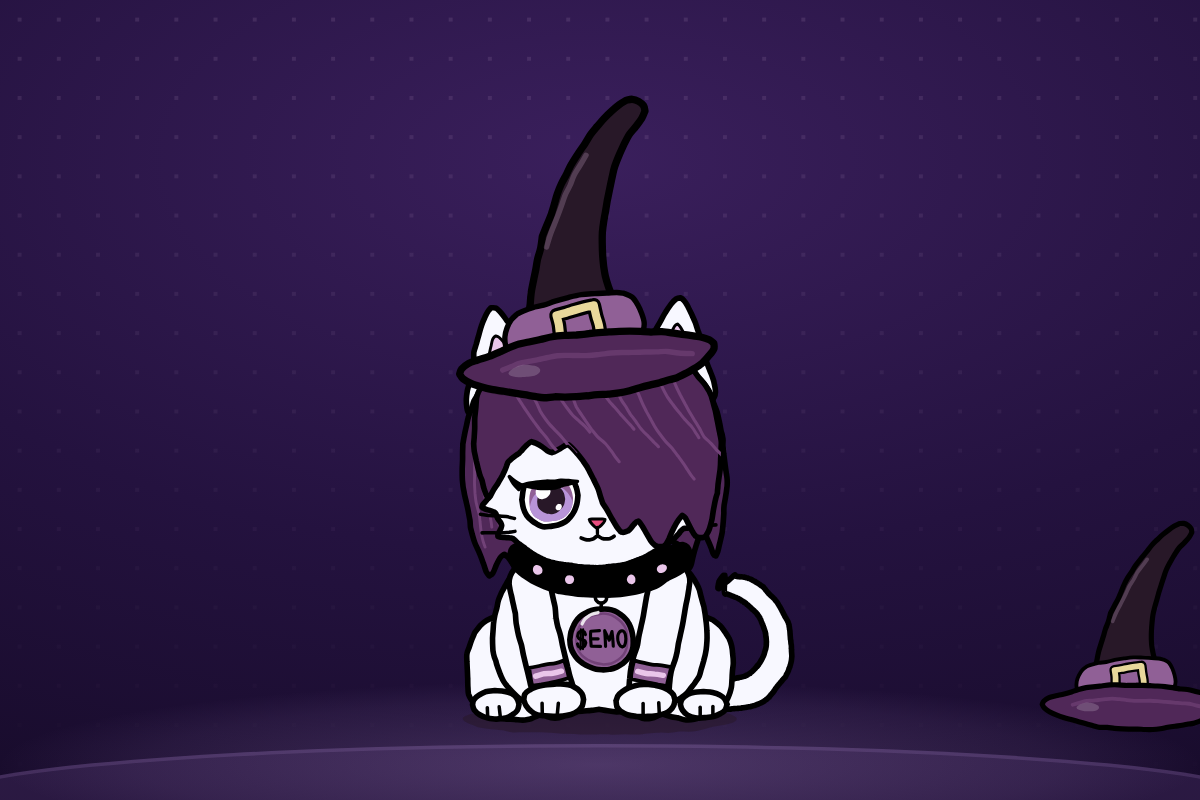
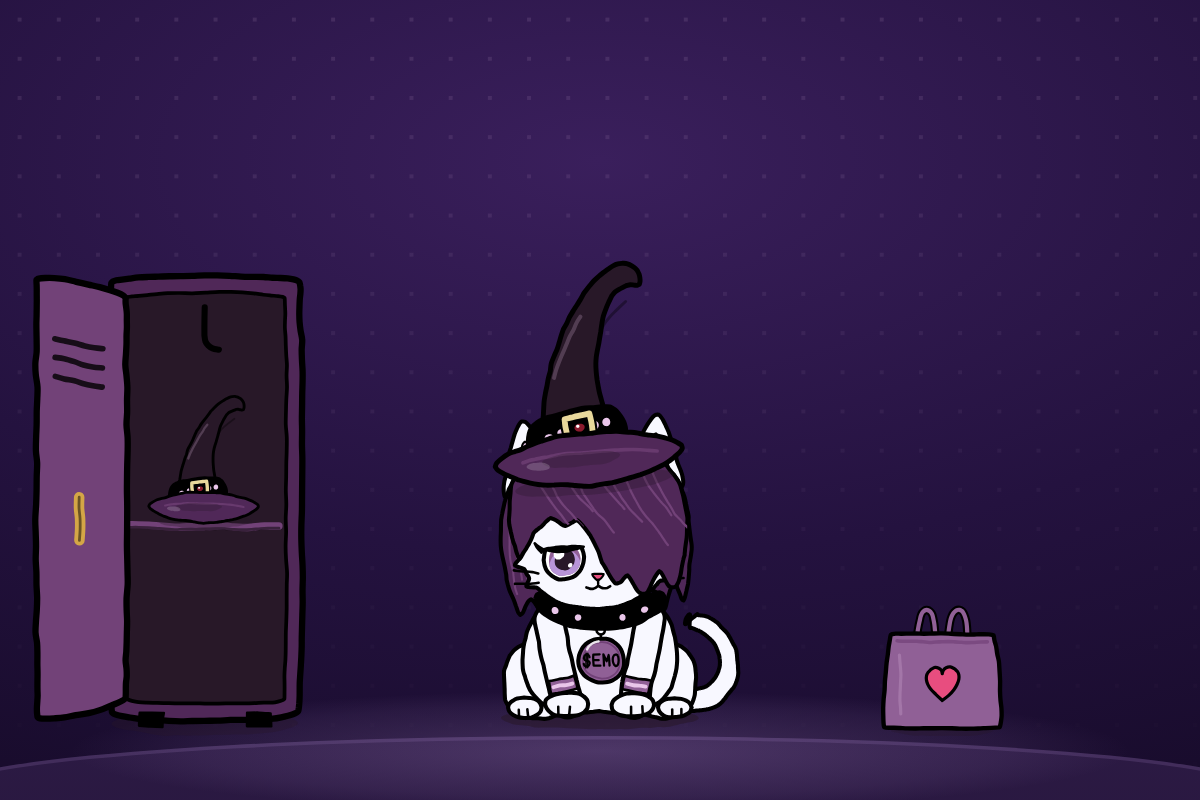
Emogotchi Items: a brand for the shop, not a product shot of one hat
The first pass was a witch hat on the room floor. A hat is an item; it is not what the shop is. The
shop is where the cat keeps its things, so the identity is a locker, and everything else is built
around opening it.

**Five new props**, all generated by packages/pet/design/props.py so they carry the same ink wobble and
palette as the cat: a closed locker with vents, a gold handle, a heart padlock and stickers; the same
locker open, with a shelf and a hook inside; a price tag; a shopping bag; a wall shelf. The heart is
drawn once (`_heart`) and used on the padlock, the tag, the bag and the coin sticker.

**The hat is remade** to look like it was made for this cat: the band is the cat's own collar, black
with lavender studs; the buckle carries a ruby like the crown; the tip curls over the way the fringe
does; the brim edge is a little ragged. A filled buckle ring closed into a blob under the wobble, so it
is drawn ink-under, gold-over, the same trick as the yarn tails.

**The kit**, at /brand/items/: logo (the locker), the header (locker open with the hat on its inside
shelf, the cat trying one on, a wall shelf with a price tag, a bag), a featured card, an X header laid
out right of where the avatar sits, a link-preview card, the locker on transparent, and an item card
template showing how each item token's own image will look, with the witch hat as the first.

Placement inside the locker is computed from the prop's own geometry (`hatOnShelf`) rather than
[…]

Changed region(s): [[0.0, 0.125, 1.0, 0.9688], [0.0, 0.9375, 0.1542, 0.9688]]

diff --git a/apps/web/public/brand/items/index.html b/apps/web/public/brand/items/index.html
@@ -21,14 +21,22 @@ Emogotchi itself, by <code>tools/items-brand.mjs</code>. The cats kit is at <a h
 <p class="lead">A marketplace crops one header file twice: <b>8:3</b> on desktop and <b>16:9</b> on a phone. A 16:9
 slice of an 8:3 image is the middle 66.7% of its width, so nothing that matters may sit outside that band. The round
 collection logo also covers the bottom-left corner, which is why there is no text anywhere on it.</p>
-<div class="piece"><h2>Collection logo · PNG, 1:1. OpenSea asks for 240×240 minimum; this is 1024 so it stays sharp.<small>1024×1024 · 406 KB · <a href="../items-logo.png" download>items-logo.png</a></small></h2>
+<div class="piece"><h2>Collection logo · PNG, 1:1. OpenSea asks for 240×240 minimum; this is 1024 so it stays sharp.<small>1024×1024 · 407 KB · <a href="../items-logo.png" download>items-logo.png</a></small></h2>
 <div class="frame"><img src="../items-logo.png" alt=""></div><div class="thumbs"><img src="../items-logo.png" width="120" height="120" alt="">
   <img src="../items-logo.png" width="64" height="64" alt=""><small>how it reads at the sizes a marketplace actually renders it</small></div></div>
-<div class="piece"><h2>Page header · 8:3 on desktop, cropped to the middle 16:9 on a phone. Same file, two crops.<small>2400×900 · 717 KB · <a href="../items-banner.png" download>items-banner.png</a></small></h2>
+<div class="piece"><h2>Page header · 8:3 on desktop, cropped to the middle 16:9 on a phone. Same file, two crops.<small>2400×900 · 701 KB · <a href="../items-banner.png" download>items-banner.png</a></small></h2>
 <div class="frame"><img src="../items-banner.png" alt=""></div><div class="crops">
   <div class="crop"><b>Desktop · 8:3</b><div class="box d"><img src="../items-banner.png" alt=""></div></div>
   <div class="crop"><b>Phone · 16:9, the middle of the same file</b><div class="box m"><img src="../items-banner.png" alt=""></div></div>
 </div></div>
-<div class="piece"><h2>Featured / card · 3:2.<small>1200×800 · 414 KB · <a href="../items-featured.png" download>items-featured.png</a></small></h2>
+<div class="piece"><h2>Featured / card · 3:2.<small>1200×800 · 383 KB · <a href="../items-featured.png" download>items-featured.png</a></small></h2>
 <div class="frame"><img src="../items-featured.png" alt=""></div></div>
+<div class="piece"><h2>Item card · 1:1. The template every item token image uses; this one is the witch hat.<small>1024×1024 · 375 KB · <a href="../item-witchhat.png" download>item-witchhat.png</a></small></h2>
+<div class="frame"><img src="../item-witchhat.png" alt=""></div></div>
+<div class="piece"><h2>Logo on transparent · 1024×1024. For overlays and avatars.<small>1024×1024 · 63 KB · <a href="../items-logo-transparent.png" download>items-logo-transparent.png</a></small></h2>
+<div class="frame"><img src="../items-logo-transparent.png" alt=""></div></div>
+<div class="piece"><h2>X header · 1500×500 (3:1). Avatar covers the bottom-left, so the shop sits right of centre.<small>3000×1000 · 854 KB · <a href="../items-x-header.png" download>items-x-header.png</a></small></h2>
+<div class="frame"><img src="../items-x-header.png" alt=""></div></div>
+<div class="piece"><h2>Link preview (Open Graph / X card) · 2400×1260 (1.91:1).<small>2400×1260 · 941 KB · <a href="../items-og.png" download>items-og.png</a></small></h2>
+<div class="frame"><img src="../items-og.png" alt=""></div></div>
 </body></html>

diff --git a/packages/pet/design/props.py b/packages/pet/design/props.py
@@ -265,30 +265,117 @@ def moon():
     g = [path("M30,4 C16,6 6,18 6,32 C6,48 18,60 34,60 C44,60 52,55 57,48 C54,49 51,50 47,50 C31,50 19,38 19,22 C19,15 21,9 25,4 Z", GOLD, INK, LW)]
     svg("moon", 64, 64, g)
 
+def _glint(cx, cy, r):
+    return f'<circle cx="{cx}" cy="{cy}" r="{r}" fill="#FFFFFF" stroke="none"/>'
+
+def _heart(cx, cy, w, fill=PINK, lw=1.8):
+    """The Emonad heart, the same shape the site's wordmark uses, sized by width."""
+    k = w / 28.0
+    d = (f"M{cx},{cy+11*k} C{cx-12*k},{cy+2*k} {cx-14*k},{cy-6*k} {cx-8*k},{cy-10*k} "
+         f"C{cx-4*k},{cy-13*k} {cx},{cy-10*k} {cx},{cy-7*k} C{cx},{cy-10*k} {cx+4*k},{cy-13*k} {cx+8*k},{cy-10*k} "
+         f"C{cx+14*k},{cy-6*k} {cx+12*k},{cy+2*k} {cx},{cy+11*k} Z")
+    return path(d, fill, INK, lw)
+
 def witchhat():
-    """The first Emogotchi Items costume. A tall dark-plum cone with a drooping tip, a purple band and
-    a gold buckle, so it reads against both the cat's plum hair and its white fur. Generated here
-    rather than hand-drawn so it carries the same baked ink wobble as every other prop."""
+    """The first Emogotchi Items costume, and the yardstick for every costume after it: it has to
+    look like it was made for this cat. So the band is the cat's collar (black, lavender studs), the
+    buckle carries a ruby like the crown, and the tip curls over the way the fringe does. Generated
+    here rather than hand-drawn so it carries the same baked ink wobble as everything else."""
     g = []
-    g.append(ellipse(56, 108, 40, 6, PUPIL, "none", 0, 'opacity="0.30"'))          # contact shadow
-    # the cone: tall, tapering to a drooping point that falls to the right
-    cone = [(34, 100), (37, 78), (44, 54), (55, 32), (68, 16), (80, 7), (86, 12),
-            (77, 24), (69, 44), (65, 68), (68, 100)]
+    g.append(ellipse(60, 122, 44, 6, PUPIL, "none", 0, 'opacity="0.30"'))          # contact shadow
+    # the cone: tall, leaning right, with the tip curling over on itself
+    cone = [(34, 106), (36, 82), (42, 58), (52, 36), (65, 18), (77, 7), (88, 4), (96, 9), (96, 16),
+            (89, 16), (80, 21), (72, 40), (67, 66), (69, 106)]
     g.append(path(smooth_closed(cone, 0.5), PUPIL, INK, LW))
-    g.append(path("M45,58 Q52,40 63,26", "none", LAV, 2.0, 'opacity="0.22"'))      # soft edge light
-    # band, following the cone's taper
-    g.append(path(smooth_closed([(30, 97), (32, 81), (71, 78), (75, 94)], 0.45), PURPLE, INK, 2.0))
-    # buckle as a ring: ink under, gold over, the same trick the yarn tails use, so the wobble
-    # cannot close the hole up into a blob
-    g.append(path("M46,83.2 L60,81.4 L60.9,91.8 L46.9,93.6 Z", "none", INK, 5.4))
-    g.append(path("M46,83.2 L60,81.4 L60.9,91.8 L46.9,93.6 Z", "none", GOLD, 3.0))
-    # brim last, so it sits in front of the cone
-    g.append(path(smooth_closed([(8, 102), (24, 94), (52, 91), (80, 93), (102, 100),
-                                 (88, 111), (54, 114), (24, 110)], 0.5), HAIR, INK, LW))
-    g.append(path("M24,101 Q54,96 94,103", "none", STRAND, 2.0, 'opacity="0.65"'))
-    g.append(ellipse(32, 103, 6, 2.2, "#FFFFFF", "none", 0, 'opacity="0.18"'))
-    svg("witchhat", 112, 122, g)
+    g.append(path("M73,38 Q80,30 88,24", "none", INK, 1.6, 'opacity="0.35"'))       # crease under the curl
+    g.append(path("M44,62 Q51,44 62,30", "none", LAV, 2.2, 'opacity="0.22"'))       # soft edge light
+    # the band is the collar: black, with the same lavender studs
+    g.append(path(smooth_closed([(30, 103), (32, 85), (73, 81), (77, 99)], 0.45), INK, INK, 2.0))
+    for sx, sy in ((38, 95), (45, 93), (63, 90), (70, 89)):
+        g.append(f'<circle cx="{sx}" cy="{sy}" r="2.4" fill="{LAV}" stroke="none"/>')
+    # the buckle is the crown: gold ring, ink under so the wobble cannot close it, and a ruby
+    g.append(path("M47,85 L61,83.4 L61.8,96 L47.8,97.6 Z", "none", INK, 5.6))
+    g.append(path("M47,85 L61,83.4 L61.8,96 L47.8,97.6 Z", "none", GOLD, 3.2))
+    g.append(ellipse(54.4, 90.4, 3.4, 3.0, RUBY, INK, 1.4))
+    g.append(_glint(53.4, 89.4, 0.9))
+    # brim last so it sits in front, with a slightly ragged edge
+    g.append(path(smooth_closed([(6, 108), (18, 100), (34, 96), (54, 94), (74, 95), (92, 99), (110, 106),
+                                 (102, 114), (86, 120), (62, 123), (38, 121), (18, 116)], 0.5), HAIR, INK, LW))
+    g.append(path("M22,107 Q54,101 96,108", "none", STRAND, 2.0, 'opacity="0.7"'))
+    g.append(ellipse(54, 108, 22, 4, PUPIL, "none", 0, 'opacity="0.28"'))           # cone shading the brim
+    g.append(ellipse(30, 110, 6, 2.2, "#FFFFFF", "none", 0, 'opacity="0.18"'))
+    svg("witchhat", 120, 130, g)
+
+def _locker_body(g, open_door=False):
+    g.append(ellipse(50, 197, 40, 5, PUPIL, "none", 0, 'opacity="0.35"'))
+    g.append(path(smooth_closed([(10, 8), (90, 8), (90, 192), (10, 192)], 0.08), HAIR, INK, LW))
+    for fx in (22, 68):                                                             # feet
+        g.append(path(f"M{fx},192 L{fx+10},192 L{fx+10},198 L{fx},198 Z", INK, INK, 1))
+    if open_door:
+        # inside: dark, a shelf, a hook. The costume that hangs here is placed by the composer.
+        g.append(path(smooth_closed([(16, 14), (84, 14), (84, 186), (16, 186)], 0.05), PUPIL, INK, 1.6))
+        g.append(path("M18,112 L82,112", "none", STRAND, 3.2))
+        g.append(path("M18,113 L82,113", "none", INK, 1.2, 'opacity="0.5"'))
+        g.append(path("M50,18 L50,30 Q50,36 56,36", "none", INK, 2.6))                 # hook
+        # the door, swung toward us: a narrower panel on the hinge side
+        g.append(path(smooth_closed([(-22, 6), (16, 14), (16, 186), (-22, 194)], 0.05), STRAND, INK, LW))
+        g.append(path("M-14,32 L6,36", "none", INK, 2.4, 'opacity="0.8"'))
+        g.append(path("M-14,40 L6,44", "none", INK, 2.4, 'opacity="0.8"'))
+        g.append(path("M-14,48 L6,52", "none", INK, 2.4, 'opacity="0.8"'))
+        g.append(path("M-4,100 L-4,118", "none", GOLD2, 4.5))
+        g.append(path("M-4,100 L-4,118", "none", INK, 1.2, 'opacity="0.5"'))
+    else:
+        g.append(path(smooth_closed([(16, 14), (84, 14), (84, 186), (16, 186)], 0.05), STRAND, INK, 2.0))
+        for vy in (30, 38, 46):                                                     # vents
+            g.append(path(f"M30,{vy} L70,{vy}", "none", INK, 2.6, 'opacity="0.8"'))
+        g.append(path("M20,20 L20,180", "none", LAV, 2.0, 'opacity="0.18"'))         # edge light
+        g.append(path("M74,98 L74,118", "none", GOLD2, 5))                             # handle
+        g.append(path("M74,98 L74,118", "none", INK, 1.4, 'opacity="0.55"'))
+        # heart padlock hanging off the latch
+        g.append(path("M66,122 Q66,114 72,114 Q78,114 78,122", "none", INK, 2.6))
+        g.append(_heart(72, 131, 20, PINK, 2.0))
+        g.append(_glint(68, 126, 1.3))
+        # stickers, because it is a locker
+        g.append(path("M36,150 L39.5,158.5 L48.5,159 L41.5,164.5 L44,173.5 L36,168.5 L28,173.5 L30.5,164.5 L23.5,159 L32.5,158.5 Z", GOLD, INK, 1.6))
+        g.append(ellipse(58, 170, 9, 9, PURPLE, INK, 1.8))
+        g.append(ellipse(58, 170, 7, 7, "none", STRAND, 1.0))
+        g.append(path("M52.5,166 Q54,162.5 57.5,162", "none", "#FFFFFF", 1.4, 'opacity="0.85"'))
+        g.append(_heart(58, 171, 8, PINK, 1.2))
+
+def locker():
+    g = []; _locker_body(g); svg("locker", 100, 202, g)
+
+def lockeropen():
+    g = ['<g transform="translate(26 0)">']; _locker_body(g, open_door=True); g.append('</g>'); svg("lockeropen", 126, 202, g, amp=0.8)
+
+def pricetag():
+    g = []
+    g.append(path("M14,15 Q10,4 20,2 Q28,4 26,14", "none", INK, 1.8))                  # string
+    g.append(path(smooth_closed([(4, 18), (18, 4), (40, 4), (40, 56), (4, 56)], 0.1), LAV, INK, LW))
+    g.append(ellipse(15, 16, 3.0, 3.0, FUR, INK, 1.6))
+    g.append(_heart(24, 38, 18, PINK, 1.8))
+    svg("pricetag", 44, 60, g, amp=0.7)
+
+def bag():
+    g = []
+    g.append(ellipse(40, 88, 32, 4, PUPIL, "none", 0, 'opacity="0.3"'))
+    for hx in (24, 44):                                                              # handles
+        g.append(path(f"M{hx},32 C{hx},8 {hx+12},8 {hx+12},32", "none", INK, 5.2))
+        g.append(path(f"M{hx},32 C{hx},8 {hx+12},8 {hx+12},32", "none", PURPLE, 2.6))
+    g.append(path(smooth_closed([(8, 30), (72, 30), (76, 86), (4, 86)], 0.08), PURPLE, INK, LW))
+    g.append(path("M12,34 L68,34", "none", STRAND, 2.2, 'opacity="0.7"'))
+    g.append(_heart(40, 60, 26, PINK, 2.0))
+    g.append(path("M14,42 L14,78", "none", LAV, 2.0, 'opacity="0.22"'))
+    svg("bag", 80, 92, g)
+
+def shelf():
+    g = []
+    g.append(path(smooth_closed([(0, 8), (200, 8), (200, 20), (0, 20)], 0.04), STRAND, INK, LW))
+    g.append(path("M4,11 L196,11", "none", LAV, 1.8, 'opacity="0.25"'))
+    for bx in (26, 174):                                                             # brackets
+        g.append(path(f"M{bx-8},20 L{bx+8},20 L{bx},32 Z", HAIR, INK, 1.8))
+    svg("shelf", 200, 34, g, amp=0.5)
 
 
-for fn in (bowl, poop, tub, yarn, crumb, foam, heart, bubble, sparkle, droplet, puff, scoop, sponge, thought, moon, tangle, sun, coin, flame, grave, witchhat):
+for fn in (bowl, poop, tub, yarn, crumb, foam, heart, bubble, sparkle, droplet, puff, scoop, sponge, thought, moon, tangle, sun, coin, flame, grave, witchhat, locker, lockeropen, pricetag, bag, shelf):
     fn()
